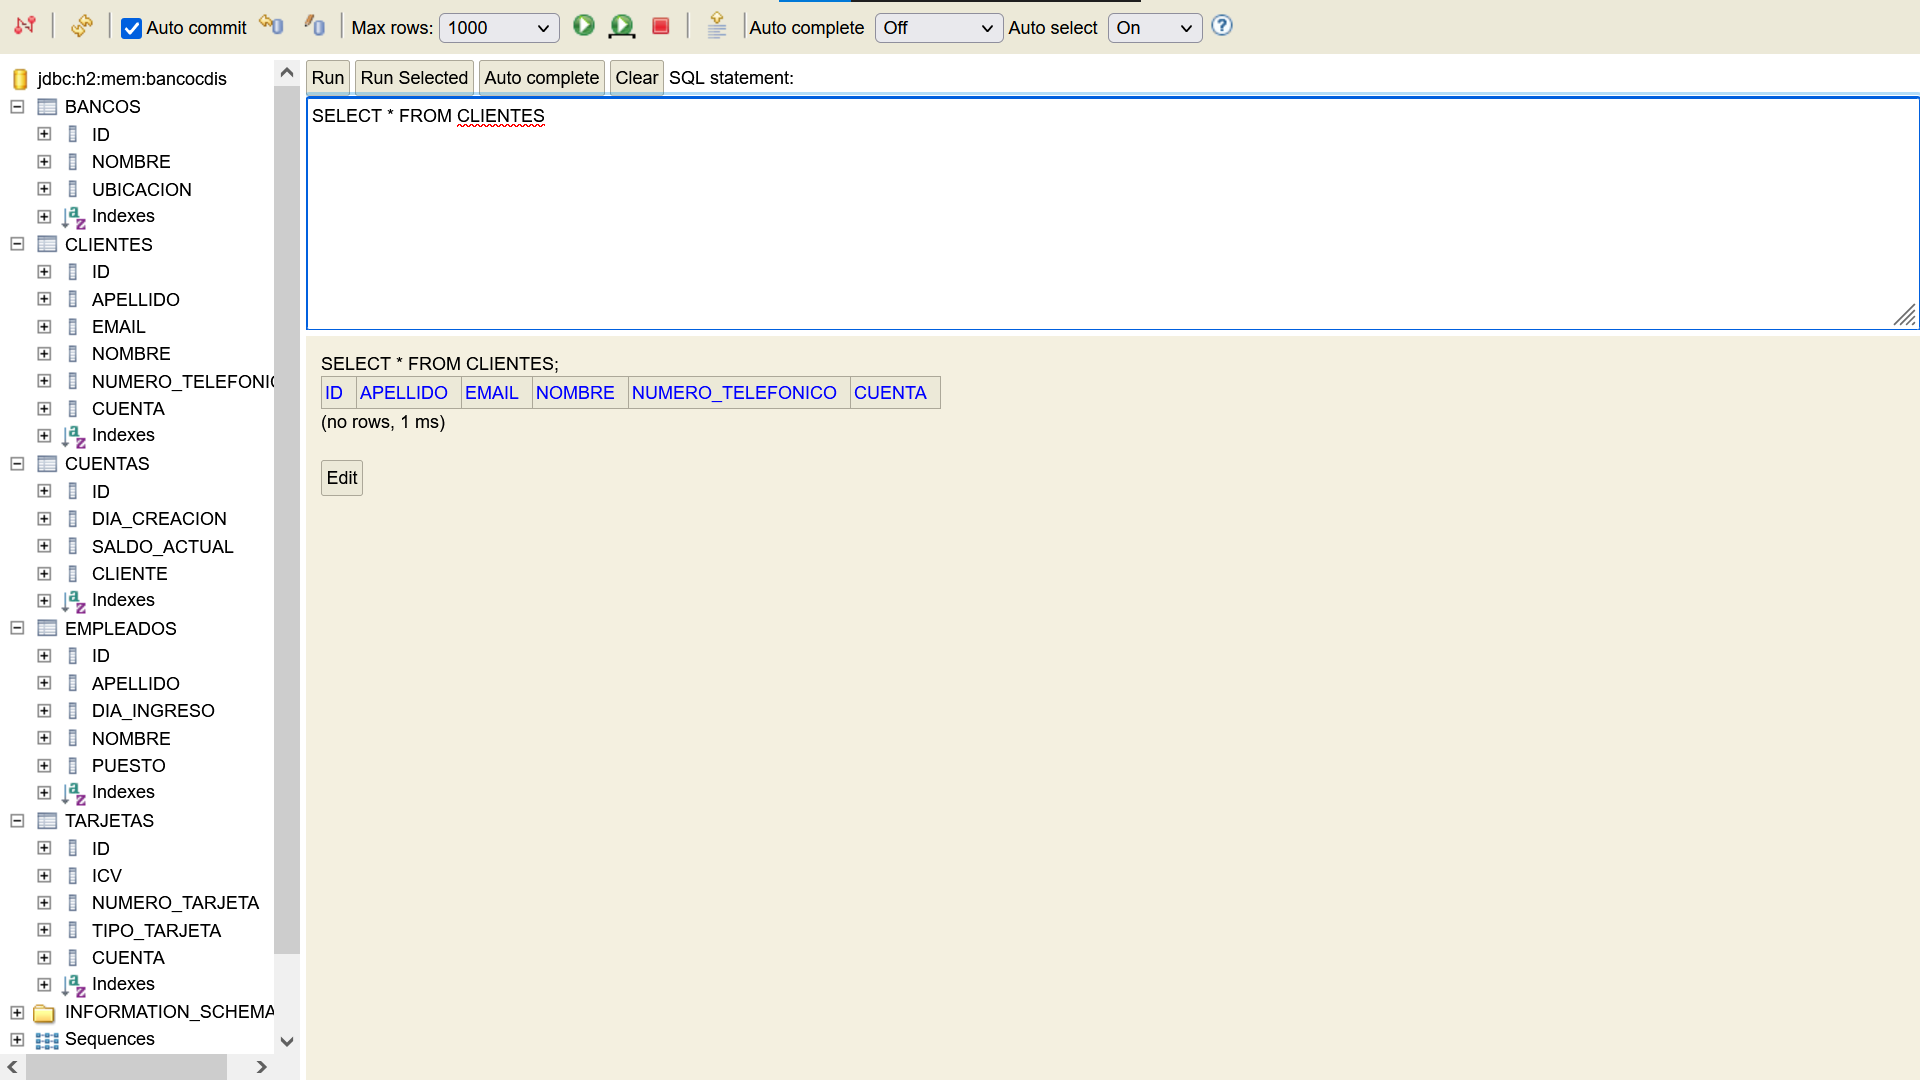
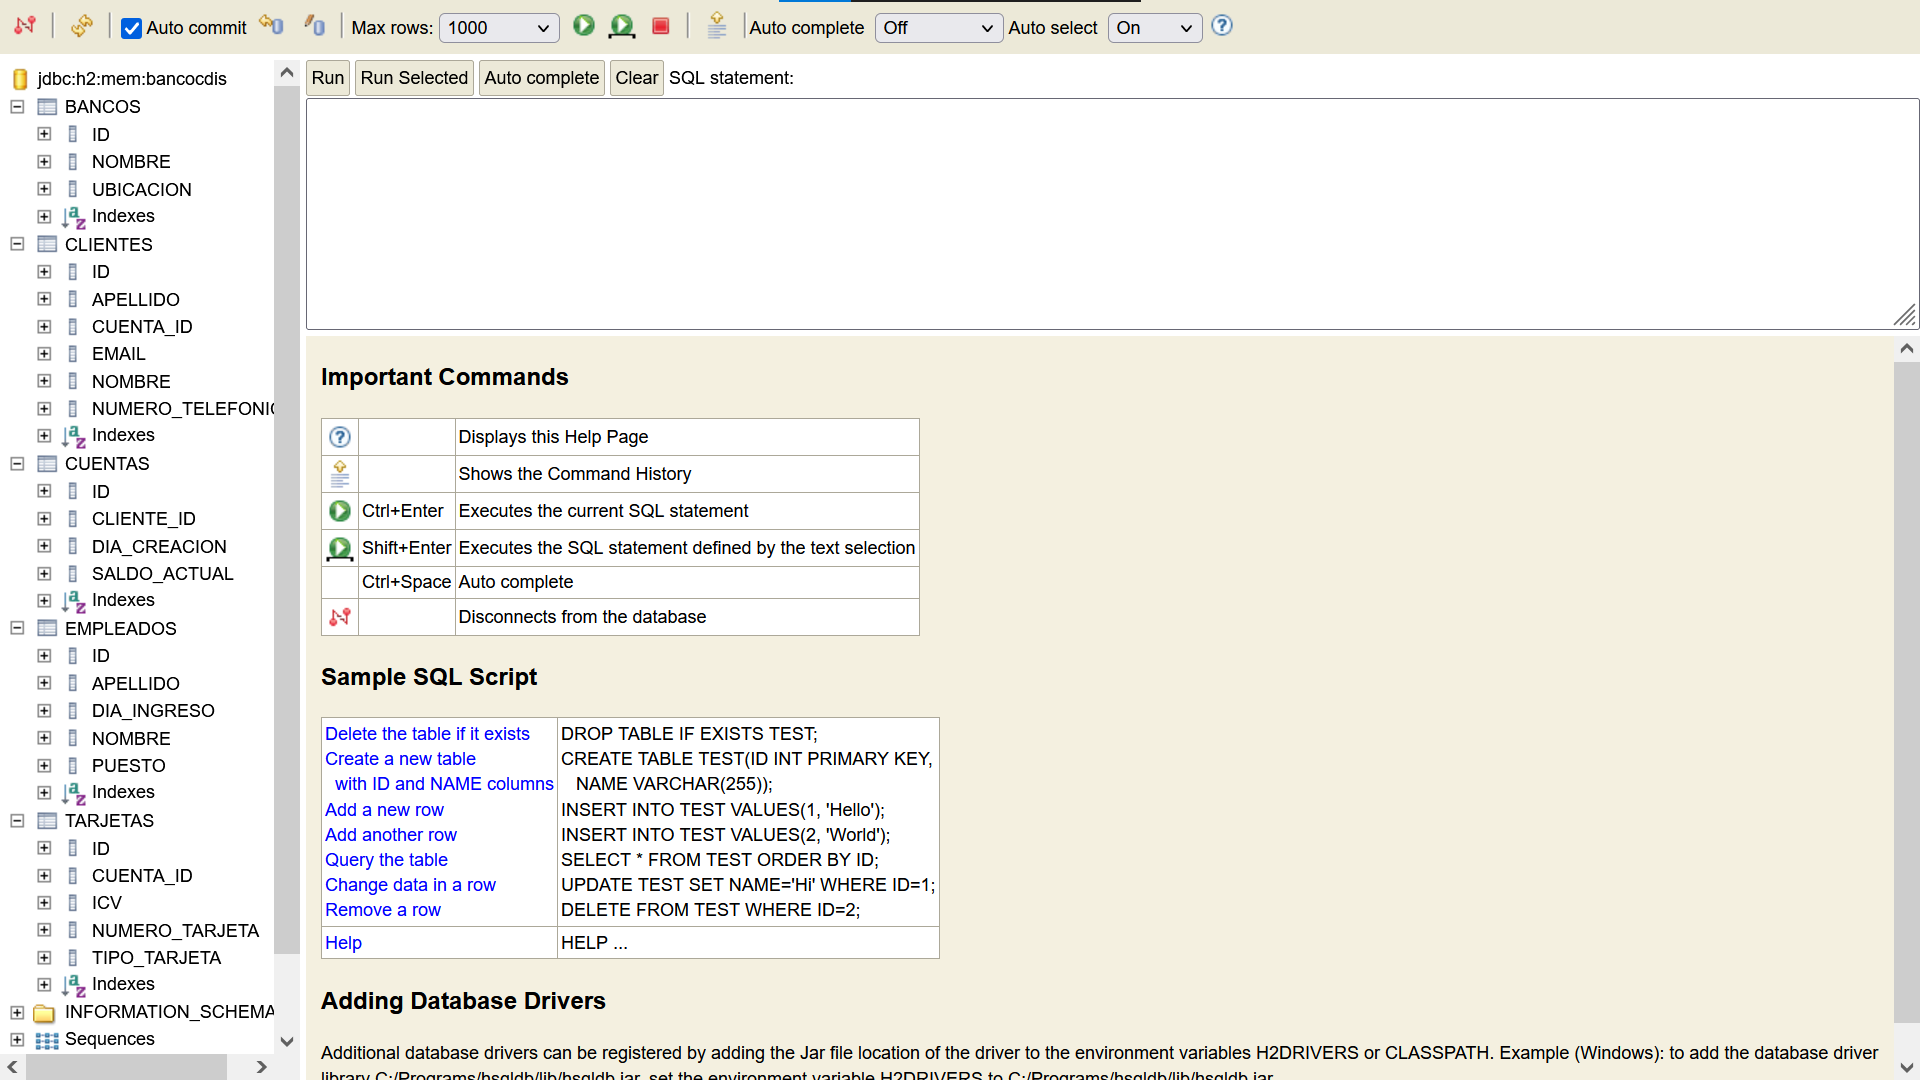
Evidencia 9

diff --git a/src/main/java/com/bancocdis/springboot/app/models/entity/Cuenta.java b/src/main/java/com/bancocdis/springboot/app/models/entity/Cuenta.java
@@ -5,15 +5,13 @@ import java.util.Date;
 
 import javax.persistence.Column;
 import javax.persistence.Entity;
-import javax.persistence.FetchType;
 import javax.persistence.GeneratedValue;
 import javax.persistence.GenerationType;
 import javax.persistence.Id;
-import javax.persistence.JoinColumn;
-import javax.persistence.OneToOne;
 import javax.persistence.Table;
 import javax.persistence.Temporal;
 import javax.persistence.TemporalType;
+import javax.validation.constraints.NotEmpty;
 
 import org.springframework.format.annotation.DateTimeFormat;
 import org.springframework.lang.NonNull;
@@ -28,16 +26,16 @@ public class Cuenta implements Serializable{
 	@GeneratedValue(strategy = GenerationType.IDENTITY)
 	private Long id;
 	
-	@JoinColumn(name = "cliente", referencedColumnName = "id", nullable = false)
-	@OneToOne(optional = false, fetch = FetchType.LAZY)
-	private Cliente cliente;
+	@Column()
+	@NonNull
+	private Long clienteId;
 		
 	@Column(name = "saldo_actual")
 	@NonNull
 	private double saldoActual;
 	
 	@Column(name = "dia_creacion")
-	@NonNull
+	@NotEmpty
 	@Temporal(TemporalType.DATE)
 	@DateTimeFormat(pattern = "yyyy-MM-dd")
 	private Date diaCreacion;
@@ -50,12 +48,13 @@ public class Cuenta implements Serializable{
 		this.id = id;
 	}
 
-	public Cliente getCliente() {
-		return cliente;
+
+	public Long getClienteId() {
+		return clienteId;
 	}
 
-	public void setCliente(Cliente cliente) {
-		this.cliente = cliente;
+	public void setClienteId(Long clienteId) {
+		this.clienteId = clienteId;
 	}
 
 	public double getSaldoActual() {

diff --git a/src/main/java/com/bancocdis/springboot/app/models/entity/Tarjeta.java b/src/main/java/com/bancocdis/springboot/app/models/entity/Tarjeta.java
@@ -13,6 +13,8 @@ import javax.persistence.OneToOne;
 import javax.persistence.Table;
 import javax.validation.constraints.NotEmpty;
 
+import org.springframework.lang.NonNull;
+
 @Entity
 @Table(name = "tarjetas" )
 public class Tarjeta implements Serializable{
@@ -27,9 +29,9 @@ public class Tarjeta implements Serializable{
 	@NotEmpty
 	private String numeroTarjeta;
 	
-	@JoinColumn(name = "cuenta", referencedColumnName = "id", nullable = false)
-	@OneToOne(optional = false, fetch = FetchType.LAZY)
-	private Cuenta cuenta;
+	@Column()
+	@NonNull
+	private Long cuentaId;
 	
 	@Column(name = "icv", nullable = false, length = 3)
 	@NotEmpty
@@ -55,12 +57,12 @@ public class Tarjeta implements Serializable{
 		this.numeroTarjeta = numeroTarjeta;
 	}
 
-	public Cuenta getCuenta() {
-		return cuenta;
+	public Long getCuentaId() {
+		return cuentaId;
 	}
 
-	public void setCuenta(Cuenta cuenta) {
-		this.cuenta = cuenta;
+	public void setCuentaId(Long cuentaId) {
+		this.cuentaId = cuentaId;
 	}
 
 	public String getIcv() {

diff --git a/src/main/java/com/bancocdis/springboot/app/models/entity/Cliente.java b/src/main/java/com/bancocdis/springboot/app/models/entity/Cliente.java
@@ -13,6 +13,8 @@ import javax.persistence.OneToOne;
 import javax.persistence.Table;
 import javax.validation.constraints.NotEmpty;
 
+import org.springframework.lang.NonNull;
+
 @Entity
 @Table(name = "clientes" )
 public class Cliente implements Serializable{
@@ -39,9 +41,9 @@ public class Cliente implements Serializable{
 	@NotEmpty
 	private String email;
 	
-	@JoinColumn(name = "cuenta", referencedColumnName = "id", nullable = false)
-	@OneToOne(optional = false, fetch = FetchType.LAZY)
-	private Cuenta cuenta;
+	@Column
+	@NonNull
+	private Long cuentaId;
 
 	public Long getId() {
 		return id;
@@ -83,12 +85,14 @@ public class Cliente implements Serializable{
 		this.email = email;
 	}
 
-	public Cuenta getCuenta() {
-		return cuenta;
+	public Long getCuentaId() {
+		return cuentaId;
 	}
 
-	public void setCuenta(Cuenta cuenta) {
-		this.cuenta = cuenta;
+	public void setCuentaId(Long cuentaId) {
+		this.cuentaId = cuentaId;
 	}
+
+
 	
 }

diff --git a/src/main/java/com/bancocdis/springboot/app/models/entity/Empleado.java b/src/main/java/com/bancocdis/springboot/app/models/entity/Empleado.java
@@ -39,7 +39,7 @@ public class Empleado implements Serializable{
 	private String puesto;
 	
 	@Column(name = "dia_ingreso")
-	@NonNull
+	@NotEmpty
 	@Temporal(TemporalType.DATE)
 	@DateTimeFormat(pattern = "yyyy-MM-dd")
 	private Date diaIngreso;
